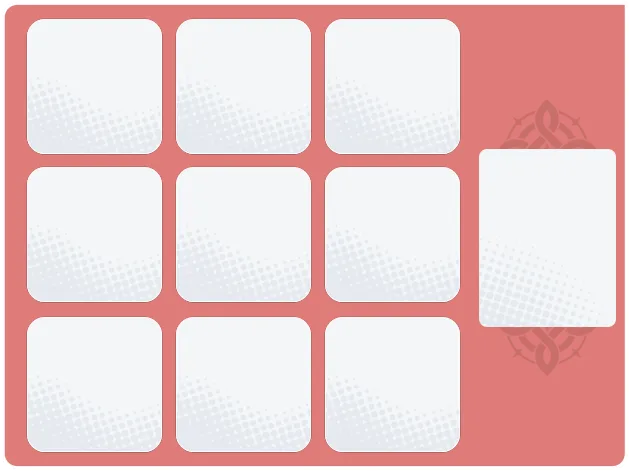
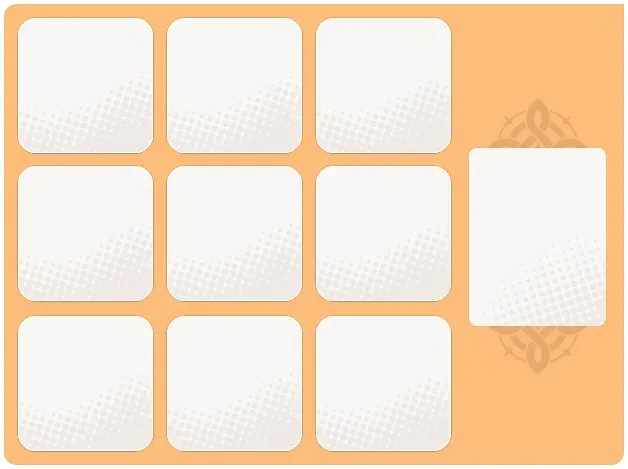
Deploy

diff --git a/index.html b/index.html
@@ -6,7 +6,7 @@
     <link rel="apple-touch-icon" href="/dragon/favicon.png" />
     <meta name="viewport" content="width=device-width, initial-scale=1.0" />
     <title>징니연구소</title>
-    <script type="module" crossorigin src="/dragon/assets/index-Bwi5CtgZ.js"></script>
+    <script type="module" crossorigin src="/dragon/assets/index-ChY0pvBk.js"></script>
     <link rel="stylesheet" crossorigin href="/dragon/assets/index-CPxqokvA.css">
   </head>
   <body>